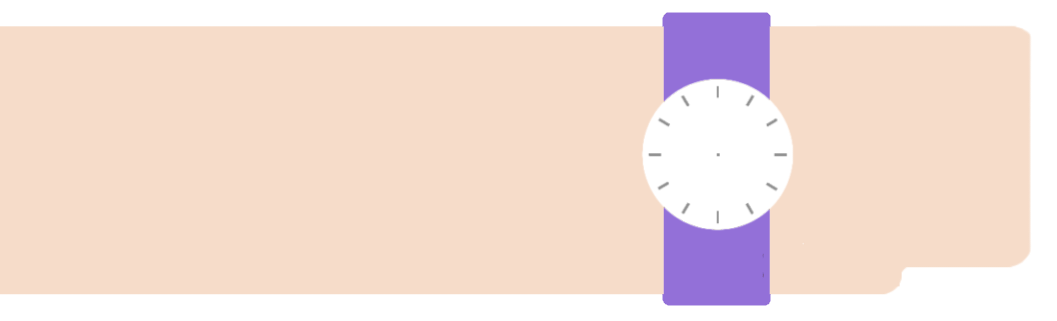
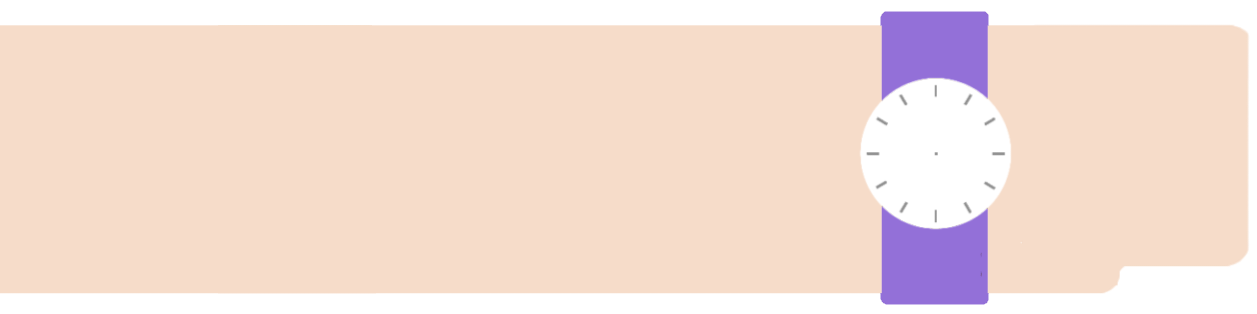
Refactoring testHead

Changed region(s): [[0.0, 0.0287, 0.9991, 0.9745], [0.1873, 0.0573, 0.281, 0.086]]

diff --git a/client/src/testSetting.js b/client/src/testSetting.js
@@ -1,26 +1,23 @@
-import { useEffect, useRef } from "react";
-
 import Header from "./components/header";
 import SelectBox from "./components/selectBox";
-import clock from "./javascripts/timer.js";
+import TestHead from "./components/testHead";
 import './styles/testSetting.css?after';
 
 function TestSet(){
     return(
         <div id="testSetting">
             <Header/>
-            <TestHead/>
+            <TestHead NextToTimer={SetSelections}/>
             <article>
                 <div className="index-par">
                     <h2>시험을 시작하기 전!</h2>
                     <ol> 
                         <li><span className="marker">단어입력 창에서 단어들을 입력</span>하고 제출합니다. </li>
-                        <li>시험을 위한 <span className="marker">시간, 문제수, 방식, 답입력시간을 정해줍니다.</span>
+                        <li>시험을 위한 <span className="marker">시간, 문제수, 방식을 정해줍니다.</span>
                             <ul> 
                                 <li>시간: 시험에 주어지는 제한시간</li>
                                 <li>문제수: 답을 적어야 하는 문제 수</li>
                                 <li>시험방식: 주어지는 것⇒적어야 하는 답 식으로 선택 가능.<br/>ex&#41; 스펠링⇒의미 'word'가 주어지고 학생은 '단어'를 적어야 합니다.</li>
-                                <li>답입력시간: 아래 시험방법에 적혀 있는 'check버튼'을 누르지 않을 수 있는 시간.</li>
                             </ul>
                         </li>
                         <li>모두 정한 후에는 START 버튼을 눌러줍니다.</li>
@@ -30,7 +27,7 @@ function TestSet(){
                     <h2>시험 전 시험방법 숙지!</h2>
                     <ul> 
                         <li>답을 입력하는 시간을 제외하고는 <span className="marker">check가 써있는 사각버튼에 마우스를 올려두어야&#40;스마트폰의 경우 누르고 있어야&#41; 합니다.</span></li>
-                        <li>check를 누르지 않은 상태가 답입력시간에서 정한 시간이 지나면 시험이 취소됩니다&#40;다른 사이트에 접속하는 것을 막기 위해서 입니다&#41;.</li>
+                        <li>check를 누르지 않은 상태가 5초 지나면 시험결과에 기록됩니다. &#40;이 경우 치팅의 가능성이 있으니 확인해주세요.&#41;.</li>
                         <li>단어입력단계에서 입력한 <span className="marker">단어의 의미가 여러개일 경우, 하나만 써야</span> 답으로 인정됩니다.</li>
                         <li>불필요한 띄어쓰기는 채점에 혼동을 줄 수 있으니 주의해주세요.</li>
                     </ul>
@@ -40,40 +37,22 @@ function TestSet(){
     );
 }
 
-function TestHead(){
-
-    const hour_ref=useRef();
-    const minute_ref=useRef();
-    const second_ref=useRef();
-
-    useEffect(() => {
-        var interval = setInterval(function(){clock(hour_ref, minute_ref, second_ref)}, 1000); // 1000 = 1s
-        return () => {
-            clearInterval(interval);
-        };
-    }, []);
+function SetSelections(){
 
     return(
-        <div id="test_head">
-            <img id="timer" src="images/timer.png" alt="타이머이미지" width="600"/>
-            <div id="clock__hour" ref={hour_ref}> </div>
-            <div id="clock__minutes" ref={minute_ref} ></div>
-            <div id="clock__seconds" ref={second_ref} ></div>
-            <form id="set"> 
-                <SelectBox name="시간" st={10} end={61} step={10} suffix="m"/>
-                <SelectBox name="문제수" st={10} end={101} step={10} suffix="개"/>
-                <select name="시험방식">
-                    <option value="none" selected="selected" disabled="disabled" hidden="hidden">시험방식</option>
-                    <option value="sp_m">스펠링⇒의미</option>
-                    <option value="m_sp">의미⇒스펠링</option>
-                    <option value="so_sp">소리⇒스펠링</option>
-                    <option value="so_m">소리⇒의미</option>
-                    <option value="so_sp,m">소리⇒스펠링&amp;의미</option>
-                </select>
-                <SelectBox name="답입력시간" st={10} end={61} step={10} suffix="s"/>
-                <button className="btn" type="submit">START</button>
-            </form>
-        </div>
+        <form id="set"> 
+            <SelectBox name="시간" st={10} end={61} step={10} suffix="m"/>
+            <SelectBox name="문제수" st={10} end={101} step={10} suffix="개"/>
+            <select name="시험방식">
+                <option value="none" selected="selected" disabled="disabled" hidden="hidden">시험방식</option>
+                <option value="sp_m">스펠링⇒의미</option>
+                <option value="m_sp">의미⇒스펠링</option>
+                <option value="so_sp">소리⇒스펠링</option>
+                <option value="so_m">소리⇒의미</option>
+                <option value="so_sp,m">소리⇒스펠링&amp;의미</option>
+            </select>
+            <button className="btn" type="submit">START</button>
+        </form>
     );
 }
 

diff --git a/client/src/styles/testSetting.css b/client/src/styles/testSetting.css
@@ -4,94 +4,46 @@
 .btn{
     --bs-btn-color: white;
     background-color: var(--main-c);
-  }
-  select{
-    cursor: pointer;
-    color: var(--main-c);
-    border-width: 2px;
-    border-color: var(--main-c);
-    border-radius: 2px;
-  }
-  #test_head #set button{
-    box-shadow: 0px 3px 5px gray;
-  }
-  #test_head #timer{
-    filter: drop-shadow(5px 5px 5px gray);
-  }
-  
-  /*시험 설정 부분 그리드*/
-  #set{
-    margin: 10px;
-    display: grid;
-    gap: 2vw 1vw;
-    grid-template-columns: 1fr 1fr;
-  }
-  #set button{
-    grid-column: 1/3;
-  }
-  #test_head{
-    display: grid;
-    grid-template-columns: 60vw 1fr;
-  }
-  #set select{
-    width: 17vw;
-  }
-  #test_head #timer{
-    width: 60vw;
-  }
-  
-  /*본문 스타일*/
-  .index-par{
-    margin: 8px;
-    padding: 5px;
-    border: 1px solid var(--main-c);
-    border-radius: 3px;
-    font-family: 'ChosunSm';
-    font-size: 1.1rem;
-  }
-  .index-par h2{
-    margin-bottom: 5px;
-    padding: 5px;
-  }
-  .index-par h2::before{
-    content: 'ο ';
-    font-family: var(--bs-body-font-family);
-  }
-  
-  /*시계 스타일*/
-  #clock__hour, 
-  #clock__minutes, 
-  #clock__seconds {
-    position: absolute;
-    display: flex;
-    justify-content: center;
-    top: calc(115px + 8.8vw);
-    left: 40.8vw;
-  }
-  
-  #clock__hour::before {
-    content: '';
-    position: absolute;
-    background-color: black;
-    width: 0.25vw;
-    height: 2vw;
-    border-radius: .75rem;
-  }
-  
-  #clock__minutes::before {
-    content: '';
-    position: absolute;
-    background-color: black;
-    width: 0.25vw;
-    height: 3vw;
-    border-radius: .75rem;
-  }
-  
-  #clock__seconds::before {
-    content: '';
-    position: absolute;
-    background-color: var(--main-c);
-    width: 0.2vw;
-    height: 3.5vw;
-    border-radius: .75rem;
-  }
+}
+select{
+  cursor: pointer;
+  color: var(--main-c);
+  border-width: 2px;
+  border-color: var(--main-c);
+  border-radius: 2px;
+}
+#test_head #set button{
+  box-shadow: 0px 3px 5px gray;
+}
+
+/*시험 설정 부분 그리드*/
+#set{
+  margin: 10px;
+  display: grid;
+  gap: 1vw 1vw;
+  grid-template-columns: 1fr 1fr;
+}
+#set button{
+  grid-column: 1/3;
+}
+#set select{
+  width: 17vw;
+}
+
+/*본문 스타일*/
+.index-par{
+  margin: 8px;
+  padding: 5px;
+  border: 1px solid var(--main-c);
+  border-radius: 3px;
+  font-family: 'ChosunSm';
+  font-size: 1.1rem;
+}
+.index-par h2{
+  margin-bottom: 5px;
+  padding: 5px;
+}
+.index-par h2::before{
+  content: 'ο ';
+  font-family: var(--bs-body-font-family);
+}

diff --git a/client/src/components/testHead.js b/client/src/components/testHead.js
@@ -1,0 +1,36 @@
+import { useEffect, useRef } from "react";
+
+import clock from "../javascripts/timer.js";
+import '../styles/testHead.css?after';
+
+/**
+ * 테스트 위 시계 컴포넌트
+ * 
+ * @param {*} NextToTimer 시계 오른쪽의 요소 
+ * @returns 
+ */
+function TestHead({ NextToTimer }){
+
+    const hour_ref=useRef();
+    const minute_ref=useRef();
+    const second_ref=useRef();
+
+    useEffect(() => {
+        var interval = setInterval(function(){clock(hour_ref, minute_ref, second_ref)}, 1000); // 1000 = 1s
+        return () => {
+            clearInterval(interval);
+        };
+    }, []);
+
+    return(
+        <div id="test_head">
+            <img id="timer" src="images/timer.png" alt="타이머이미지" width="600"/>
+            <div id="clock__hour" ref={hour_ref}> </div>
+            <div id="clock__minutes" ref={minute_ref} ></div>
+            <div id="clock__seconds" ref={second_ref} ></div>
+            <NextToTimer></NextToTimer>
+        </div>
+    );
+}
+
+export default TestHead;

diff --git a/client/src/styles/testHead.css b/client/src/styles/testHead.css
@@ -1,0 +1,50 @@
+/*그리드*/
+#test_head{
+display: grid;
+grid-template-columns: 60vw 1fr;
+}
+#test_head #timer{
+width: 60vw;
+}
+
+#test_head #timer{
+    filter: drop-shadow(5px 5px 5px gray);
+}
+
+/*시계 스타일*/
+#clock__hour, 
+#clock__minutes, 
+#clock__seconds {
+  position: absolute;
+  display: flex;
+  justify-content: center;
+  top: calc(115px + 7.3vw);
+  left: 44.7vw;
+}
+
+#clock__hour::before {
+  content: '';
+  position: absolute;
+  background-color: black;
+  width: 0.25vw;
+  height: 2vw;
+  border-radius: .75rem;
+}
+
+#clock__minutes::before {
+  content: '';
+  position: absolute;
+  background-color: black;
+  width: 0.25vw;
+  height: 3vw;
+  border-radius: .75rem;
+}
+
+#clock__seconds::before {
+  content: '';
+  position: absolute;
+  background-color: var(--main-c);
+  width: 0.2vw;
+  height: 3.5vw;
+  border-radius: .75rem;
+}

diff --git a/client/src/components/header.js b/client/src/components/header.js
@@ -9,6 +9,7 @@ function Header(){
                     <li className='list-group-item'><Link className="link" to="/main">테스트</Link></li>
                     <li className='list-group-item'><Link className="link" to="/input">단어입력</Link></li>
                     <li className='list-group-item'>시험기록</li>
+                    <li className='list-group-item'>사용방법</li>
                 </ul>
             </nav>
         </header>
